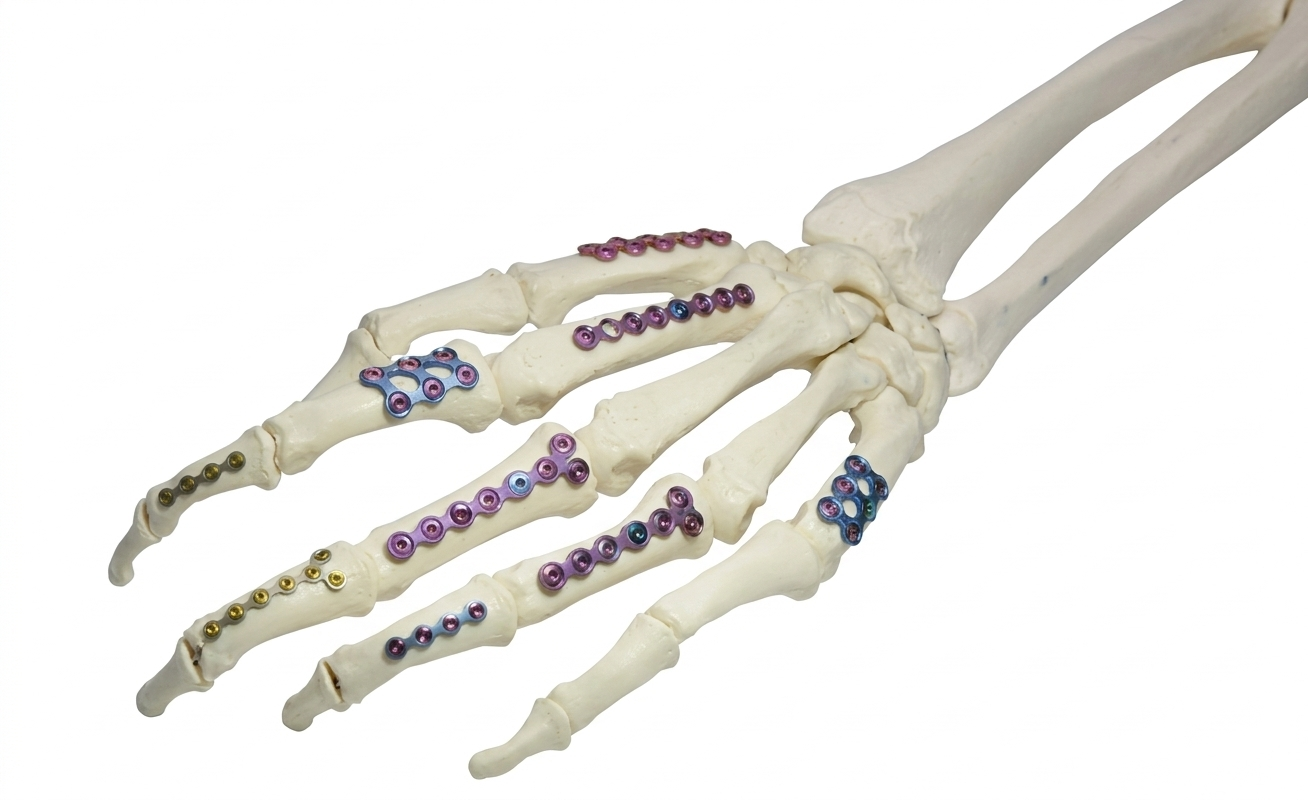
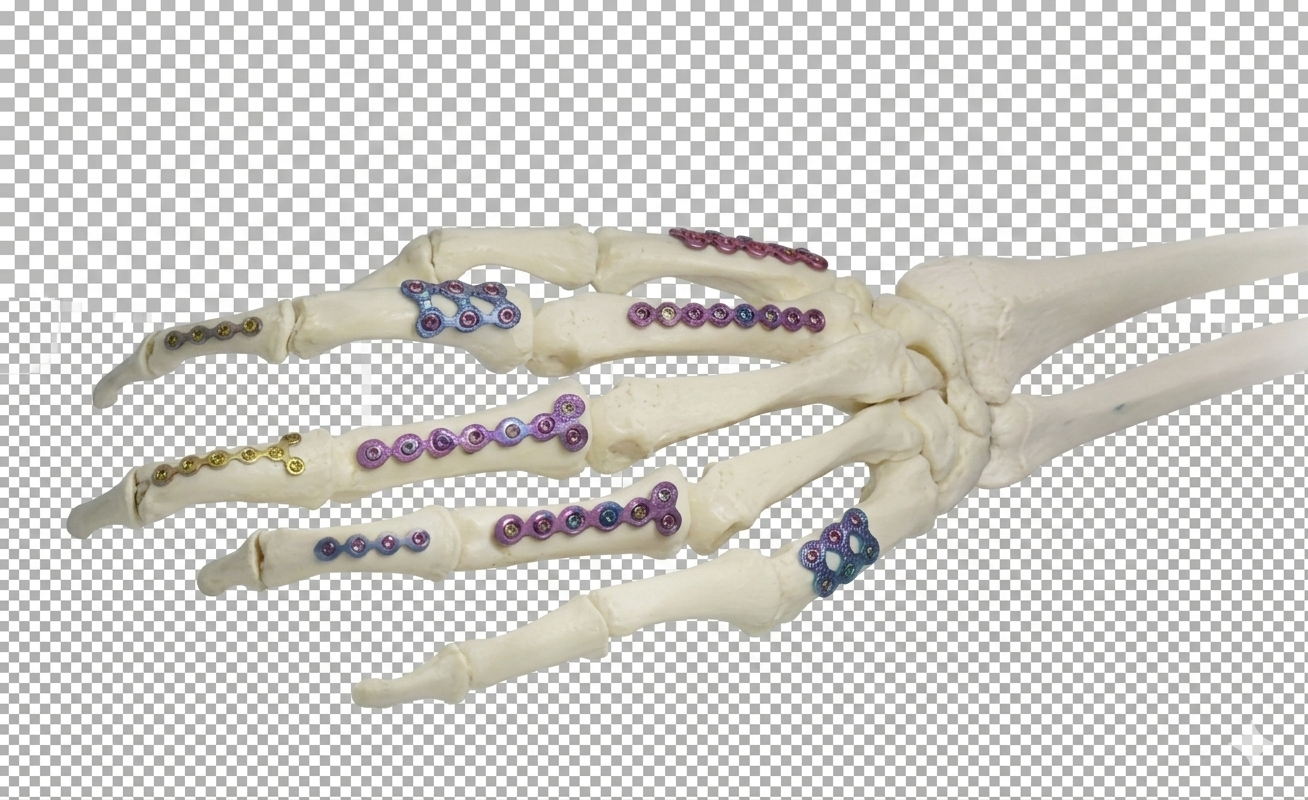
Update hero photos and UI improvements

diff --git a/styles.css b/styles.css
@@ -259,7 +259,7 @@ h2 {
   list-style: none;
   gap: 2rem;
   align-items: center;
-  margin-right: 5rem;
+  margin-right: auto;
 }
 
 .nav-links a {
@@ -429,8 +429,7 @@ h2 {
   letter-spacing: 0.1em;
   text-transform: uppercase;
   border-radius: 2px;
-  margin-right: auto;
-  margin-left: 20px;
+  margin: 0 2rem 0 20px;
   color: var(--pure-white);
 }
 
@@ -613,6 +612,7 @@ h2 {
   box-shadow: 0 20px 40px rgba(26, 58, 143, 0.15);
   /* primary-navy tinted shadow */
   border-color: var(--accent-purple);
+  transition: transform 0s, box-shadow 0s, border-color 0s;
 }
 
 .category-item-img img {
@@ -625,6 +625,7 @@ h2 {
 
 .category-item-img:hover img {
   transform: scale(1.05);
+  transition: transform 0s;
 }
 
 .category-item-img h4 {